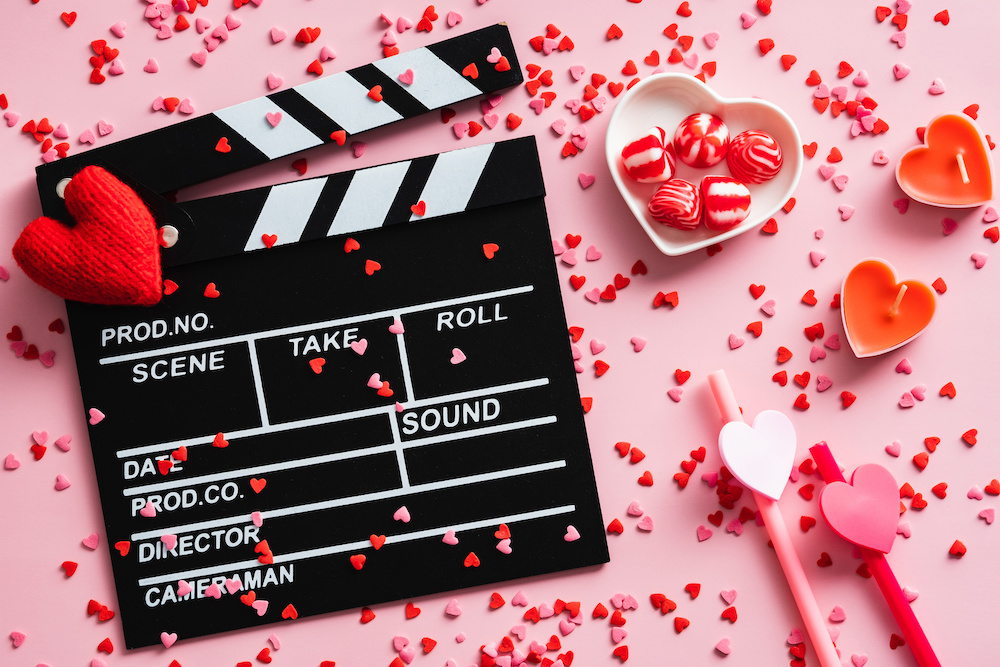
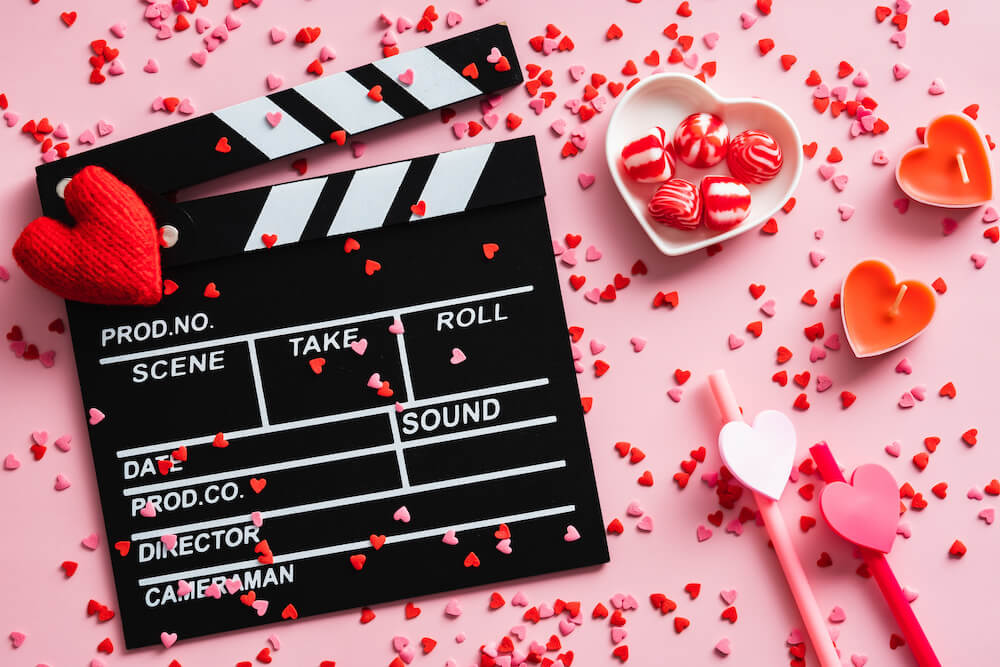
Reduced image sizes (index and games.html), new card color and additional padding

diff --git a/games.html b/games.html
@@ -70,7 +70,6 @@
         <!-- Page Title-->
         <div>
             <h1 class="text-center mt-4">Have Some Fun!</h1>
-            <h2 class="text-center mt-4"><em>Spend time.....create memories!</em></h2>
         </div>
 
 
@@ -90,7 +89,7 @@
             <div class="cards__single card">
 
                 <div class="cards__front">
-                    <h3>For the Singletons</h3>
+                    <h3 class="p-3">For the Singletons</h3>
                     <img src="assets/images/controller.jpeg" class="card-img-top" alt="">
                     <div class="card-body">
                         <p class="card-text">Being on your own doesn't mean you are excluded from the fun! These ideas are just for you and could spark new special friendships!</p>
@@ -104,7 +103,7 @@
             <!--item 2-->
             <div class="cards__single">
                 <div class="cards__front">
-                    <h3>Play at Home Together</h3>
+                    <h3 class="p-3">Play at Home Together</h3>
                     <img src="assets/images/tic_tac_toe.jpeg" class="card-img-top" alt="">
                     <div class="card-body">
                         <p class="card-text">Challenge your partner with these fun games... who knows where the fun will end?!</p>
@@ -114,10 +113,11 @@
                     <h1>This is the back of the card</h1>
                 </div>
             </div>
+
             <!--item 3-->
             <div class="cards__single">
                 <div class="cards__front">
-                    <h3>Online Experiences</h3>
+                    <h3 class="p-3">Online Experiences</h3>
                     <img src="assets/images/loading.jpeg" class="card-img-top" alt="">
                     <div class="card-body">
                         <p class="card-text">Don't let distance stop the excitement. Grab your phone and take the fun online!</p>
@@ -128,45 +128,6 @@
                 </div>
             </div>
         </section>
-
-        <div class="container mt-5 text-center">
-            <div class="row">
-
-                    <!--item 1-->
-                    <div class="col-12 col-md-4 mt-3">
-                        <h3>For the Singletons</h3>
-                        <div class="card bg-transparent">
-                            <img src="/assets/images/controller.jpeg" class="card-img-top" alt="">
-                            <div class="card-body">
-                            <p class="card-text">Being on your own doesn't mean you are excluded from the fun! These ideas are just for you and could spark new special friendships!</p>
-                            </div>
-                        </div>
-                    </div>
-
-                    <!--item 2-->
-                    <div class="col-12 col-md-4 mt-3">
-                        <h3>Play at Home Together</h3>
-                        <div class="card bg-transparent">
-                            <img src="/assets/images/tic_tac_toe.jpeg" class="card-img-top" alt="">
-                            <div class="card-body">
-                            <p class="card-text">Challenge your partner with these fun games... who knows where the fun will end?!</p>
-                            </div>
-                        </div>
-                    </div>
-
-                    <!--item 3-->
-                    <div class="col-12 col-md-4 mt-3">
-                        <h3>Online Experiences</h3>
-                        <div class="card bg-transparent">
-                            <img src="/assets/images/loading.jpeg" class="card-img-top" alt="">
-                            <div class="card-body">
-                            <p class="card-text">Don't let distance stop the excitement. Grab your phone and take the fun online!</p>
-                            </div>
-                        </div>
-                    </div>
-            </div>
-        </div>
-
 
     </main>
 
@@ -201,3 +162,57 @@
     <script src="assets/js/script.js"></script>
 </body>
 </html>
+
+<!----Temp collection of url links:
+  Solo
+  
+    Club Penguin
+    Free to play - make new friends and solve puzzles together in this frozen virtual world
+    https://cprewritten.net/
+    
+    MiniClip
+    Large selection of multiplayer games available on desktop and mobile. Make new friends as you team up for a challange.
+    https://www.miniclip.com/games/genre-2/multiplayer/en/
+
+    
+    Best Games to Meet People Online
+    Some of the best games with communities to meet new people
+    https://www.esquireme.com/gaming/44920-lonely-these-are-the-best-games-to-make-friends-online
+
+    
+Together
+
+    Guess the Song (Android)
+    Guess the Song is a fun mobile game where you can go head-to-head in a battle to see who can identify songs faster
+    https://play.google.com/store/apps/details?id=quess.song.music.pop.quiz
+
+    
+    Romantic Games for Couples
+    Rid the monotonous routine with some fun romantic games that are easy to play and a great way to spice things up.
+    https://www.marriage.com/advice/romance/fun-and-romantic-games-for-couples/
+    
+    21 Fun Games to Play at home
+    Suggestions for couples to interact in new and unique ways to strengthen your connections.
+    https://www.stylecraze.com/articles/games-for-couples/
+
+
+  OnLine
+
+    Virtual Game Night
+    Get ready for some wholesome laughs and bonding with your partner with a virtual game night! 
+    https://www.letsroam.com/roam_from_home/virtual_game_night
+
+    Psych
+    Mime the clues as your partner guesses for some laugh out moments! 
+    https://www.warnerbros.com/games-and-apps/psych-outwit-your-friends
+
+    Text Chat Games
+    A curated list of 30 of the best games and suggestions to play with your partner by phone!
+    https://parade.com/1043064/marynliles/texting-games/
+    
+    SnapChat Games
+    Have a phone, have SnapChat, then try one of these fun SnapChat games!
+    https://beebom.com/best-snapchat-games/
+   
+
+-->

diff --git a/index.html b/index.html
@@ -51,7 +51,7 @@
                     <li class="nav-item"><a href="index.html" class="nav-link">Home</a></li>
                     <li class="nav-item"><a href="movies.html" class="nav-link">Movies</a></li>
                     <li class="nav-item"><a href="food_drink.html" class="nav-link">Food & Drinks</a></li>
-                    <li class="nav-item"><a href="#" class="nav-link">Games Night</a></li>
+                    <li class="nav-item"><a href="games.html" class="nav-link">Games Night</a></li>
                     <li class="nav-item"><a href="#" class="nav-link">Contact Us</a></li>
                 </ul>
             </div>
@@ -69,7 +69,7 @@
         
         <!-- Page Title-->
         <div>
-            <h1 class="text-center mt-4">Valentime</h1>
+            <h1 class="text-center mt-4 hearts-color">Valentime</h1>
             <h2 class="text-center mt-4"><em>Spend time.....create memories!</em></h2>
         </div>
 
@@ -83,47 +83,45 @@
             </div>
         </div>
 
+        
         <!--Main content-->
         <div class="container mt-5 text-center">
             <div class="row">
 
-
-                    <!--item 1-->
-                    <div class="col-12 col-md-4 mt-3">
-                        <h3>Movie Recommendations</h3>
-                        <div class="card bg-transparent">
-                            <a href="movies.html">
-                                <img src="assets/images/clapperboard.jpeg" class="card-img-top" alt="">
-                                <div class="card-body">
-                                    <p class="card-text">One of the favorite ways to celebrate Valentine's Day is to snuggling up at home and streaming your
-                                    favorite movie. Most importantly, don't forget the popcorns.</p>
-                                </div>
-                            </a>
-                        </div>
+                <!--item 1-->
+                <div class="col-12 col-md-4 mt-3">
+                    <h3 class="hearts-color">Movie Recommendations</h3>
+                    <div class="index-card bg-transparent">
+                        <a href="movies.html">
+                            <img src="assets/images/clapperboard.jpeg" class="card-img-top" alt="">
+                            <div class="card-body">
+                                <p class="card-text">One of the favorite ways to celebrate Valentine's Day is to snuggling up at home and streaming your
+                                favorite movie. Most importantly, don't forget the popcorns.</p>
+                            </div>
+                        </a>
                     </div>
-               
-
-
-                    <!--item 2-->
-                    <div class="col-12 col-md-4 mt-3">
-                        <h3>Cooking Together</h3>
-                        <div class="card bg-transparent">
-                            <a href="">
-                                <img src="assets/images/biscuits.jpeg" class="card-img-top" alt="">
-                                <div class="card-body">
-                                    <p class="card-text"> Channel your inner chef and mixologist for an adventurous and interactive cooking and cocktail
-                                    sessions. Don't forget to to turn the music up a little louder and dance like you're at your favorite bar.
-                                    </p>
-                                </div>
-                            </a>
-                        </div>
+                </div>
+            
+                <!--item 2-->
+                <div class="col-12 col-md-4 mt-3">
+                    <h3 class="hearts-color">Cooking Together</h3>
+                    <div class="index-card bg-transparent">
+                        <a href="">
+                            <img src="assets/images/biscuits.jpeg" class="card-img-top" alt="">
+                            <div class="card-body">
+                                <p class="card-text"> Channel your inner chef and mixologist for an adventurous and interactive cooking and cocktail
+                                sessions. Don't forget to to turn the music up a little louder and dance like you're at your favorite bar.
+                                </p>
+                            </div>
+                        </a>
                     </div>
+                </div>
                 
 
                 <!--item 3-->
                 <div class="col-12 col-md-4 mt-3">
-                    <h3>Have Some Fun!</h3>
-                    <div class="card bg-transparent">
+                    <h3 class="hearts-color">Have Some Fun!</h3>
+                    <div class="index-card bg-transparent">
                         <a href="games.html">
                             <img src="assets/images/dice.jpeg" class="card-img-top catg-img" alt="">
                             <div class="card-body">
@@ -134,7 +132,6 @@
                 </div>
             </div>
         </div>
-
 
     </main>
 

diff --git a/movies.html b/movies.html
@@ -93,7 +93,7 @@
             <div class="cards__single">
 
                 <div class="cards__front">
-                    <h3>Films to watch solo</h3>
+                    <h3 class="p-3">Films to watch solo</h3>
                     <img src="assets/images/movies-page/solo-man.webp" class="card-img-top" alt="A black and white photo taken from behind of a man's head and back as he sits looking at a tv screen.">
                     <div class="card-body">
                         <p class="card-text">This is the card front</p>
@@ -111,7 +111,7 @@
             <!--item 2-->
             <div class="cards__single">
                 <div class="cards__front">
-                    <h3>Films for couples</h3>
+                    <h3 class="p-3">Films for couples</h3>
                     <img src="assets/images/movies-page/couple.webp" class="card-img-top" alt="black & white photograph of a couple watching a movie. The woman is leaning back into the man and is pointing a remote control at the tv.">
                     <div class="card-body">
                         <p class="card-text">This is the card front</p>
@@ -128,7 +128,7 @@
             <!--item 3-->
             <div class="cards__single">
                 <div class="cards__front">
-                    <h3>Films to watch with friends</h3>
+                    <h3 class="p-3">Films to watch with friends</h3>
                     <img src="assets/images/movies-page/group.webp" class="card-img-top" alt="A black & white photo of a trio of friends watching a movie together. The first friend is biting their fist. The second friend is clutching a coffee cup and the third friend is holding a bucket of popcorn and grimacing.">
                     <div class="card-body">
                         <p class="card-text">This is the card front</p>

diff --git a/assets/css/style.css b/assets/css/style.css
@@ -41,7 +41,9 @@ h1 {
   font-family: var(--header-text);
 }
 
-
+.hearts-color {
+  color:var(--hearts-color);
+}
 
 /* -----------------------Header */
 
@@ -90,22 +92,22 @@ h1 {
 
 /*-----------------------Item Card */
 
-.card {
-  border:solid 5px var(--accent-color);
-  border-radius: 10px;
+.index-card {
+  background: #a64e43;
+  border-radius: 16px;
+  box-shadow: 0 5px 18px rgba(0, 0, 0, 0.6);
 }
-
 
 .card-body {
-  background-color: var(--grad4-color);
+  height:15vh;
 }
 
-.card> img {
+.index-card> img {
   max-height: 20vh;
   object-fit: cover;
 }
 
-.card> a {
+.index-card> a {
   text-decoration: none;
   color:  var(--white-color);
 }
@@ -113,9 +115,7 @@ h1 {
 /* -----------------------Footer */
 
 footer {
-  margin-top: auto;
-  
-  
+  margin-top: auto;  
 }
 
 footer {
@@ -187,7 +187,7 @@ footer {
 }
 
 .cards__single {
-  background: #a64e43;
+  background: var(--secondary-color);
   display: flex;
   flex-direction: column;
   margin-top: 20px;

diff --git a/food_drink.html b/food_drink.html
@@ -48,7 +48,7 @@
                 <ul class="navbar-nav ms-auto">
                     <li class="nav-item"><a href="index.html" class="nav-link">Home</a></li>
                     <li class="nav-item"><a href="movies.html" class="nav-link">Movies</a></li>
-                    <li class="nav-item"><a href="" class="nav-link">Food & Drinks</a></li>
+                    <li class="nav-item"><a href="food_drink.html" class="nav-link">Food & Drinks</a></li>
                     <li class="nav-item"><a href="games.html" class="nav-link">Games Night</a></li>
                 </ul>
             </div>
